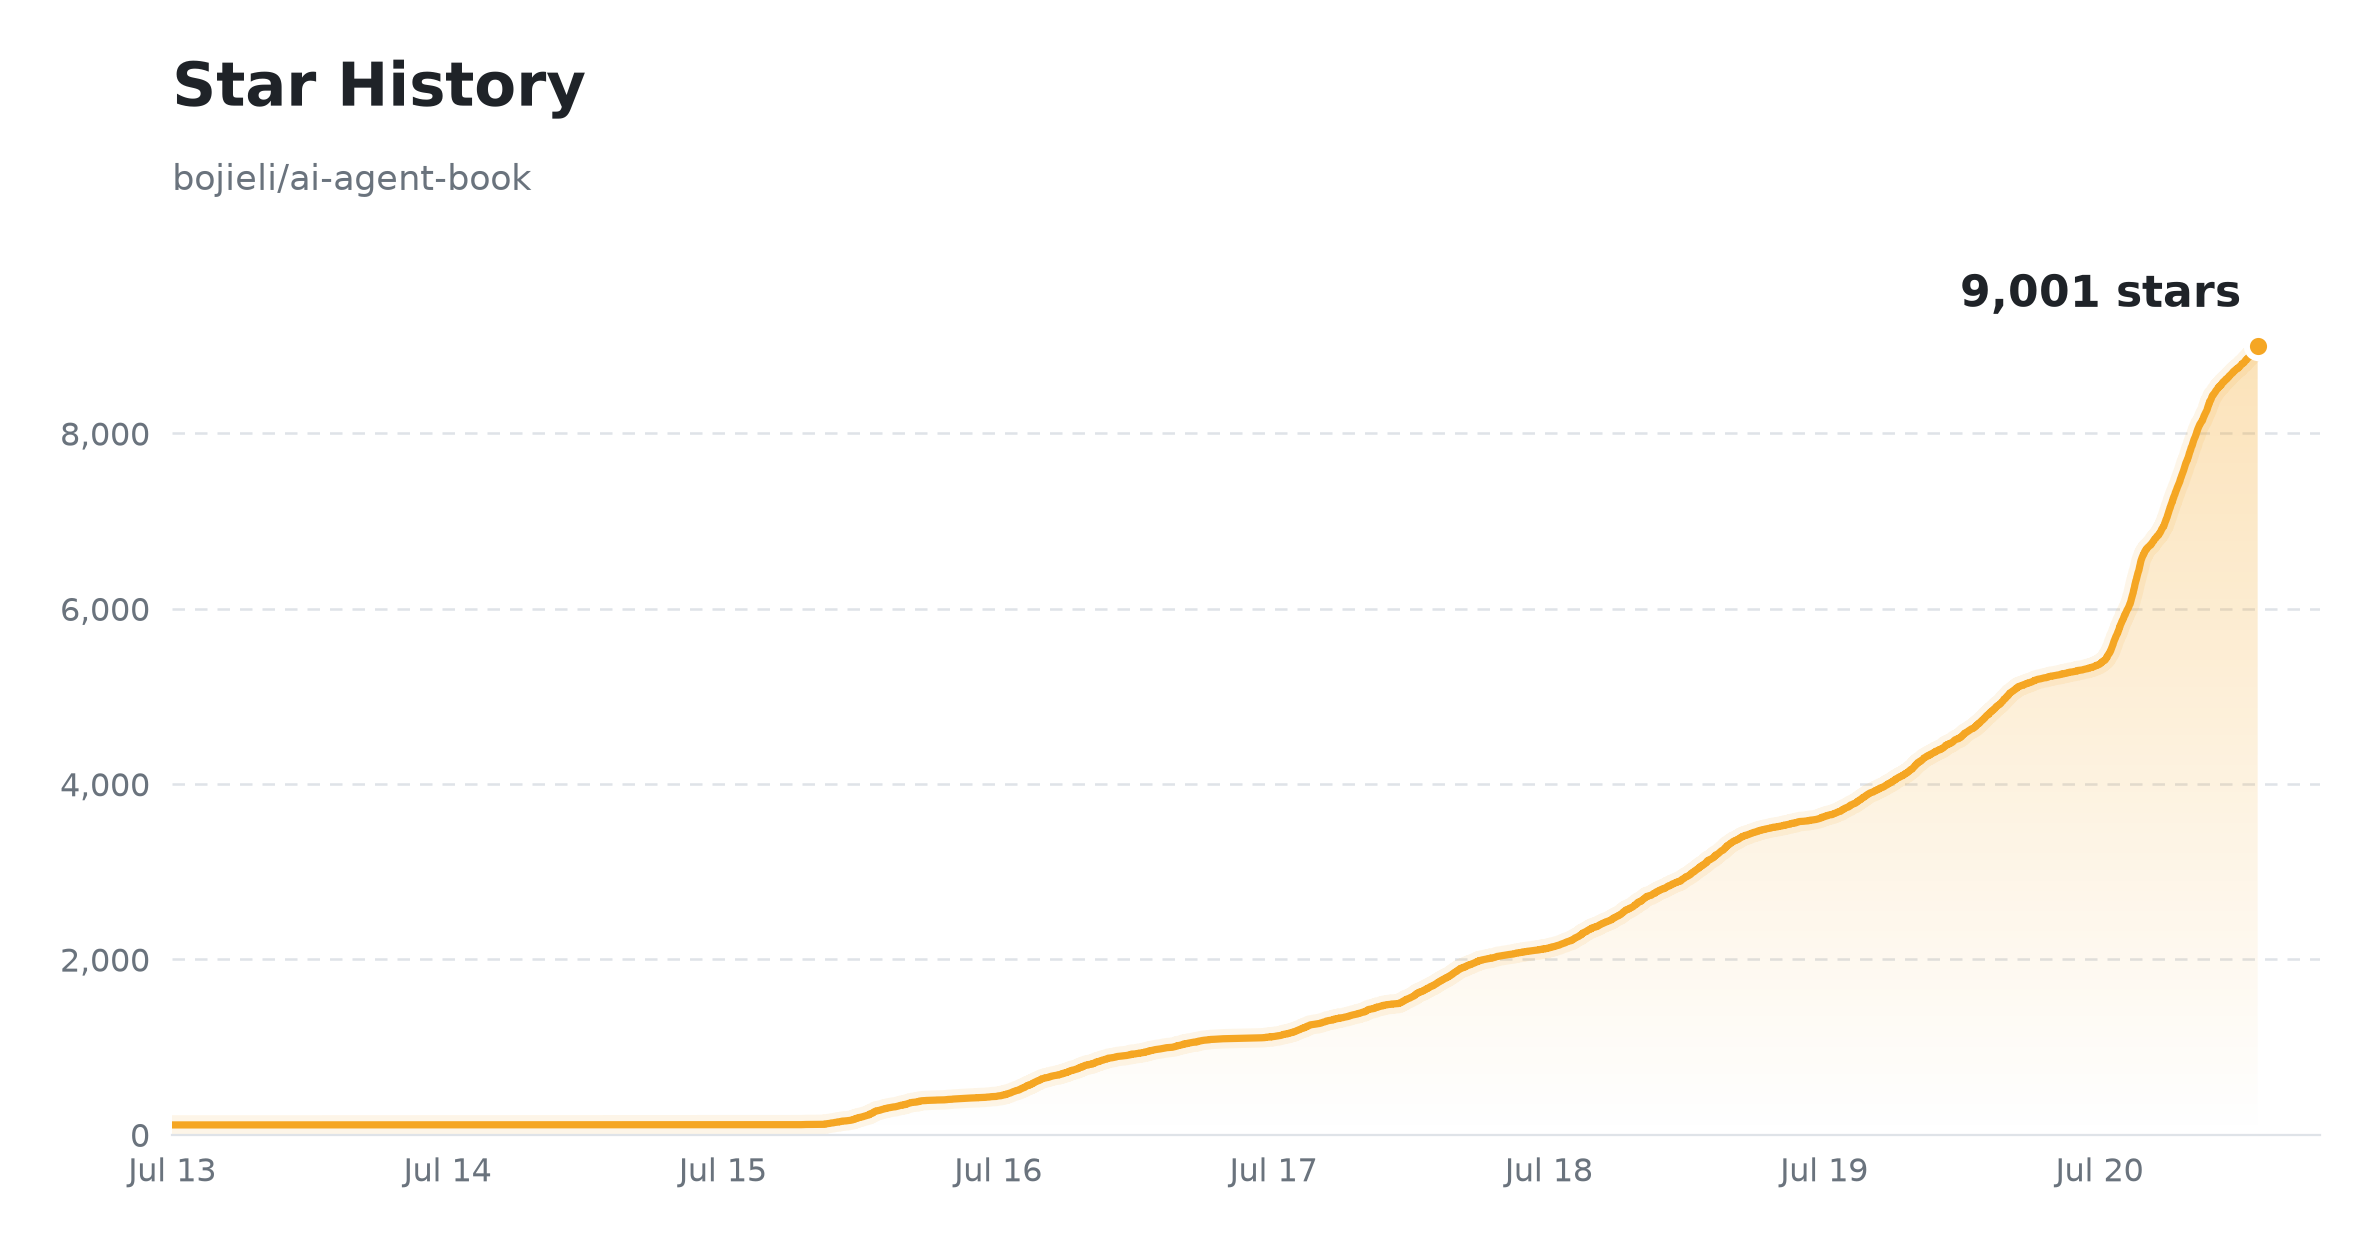
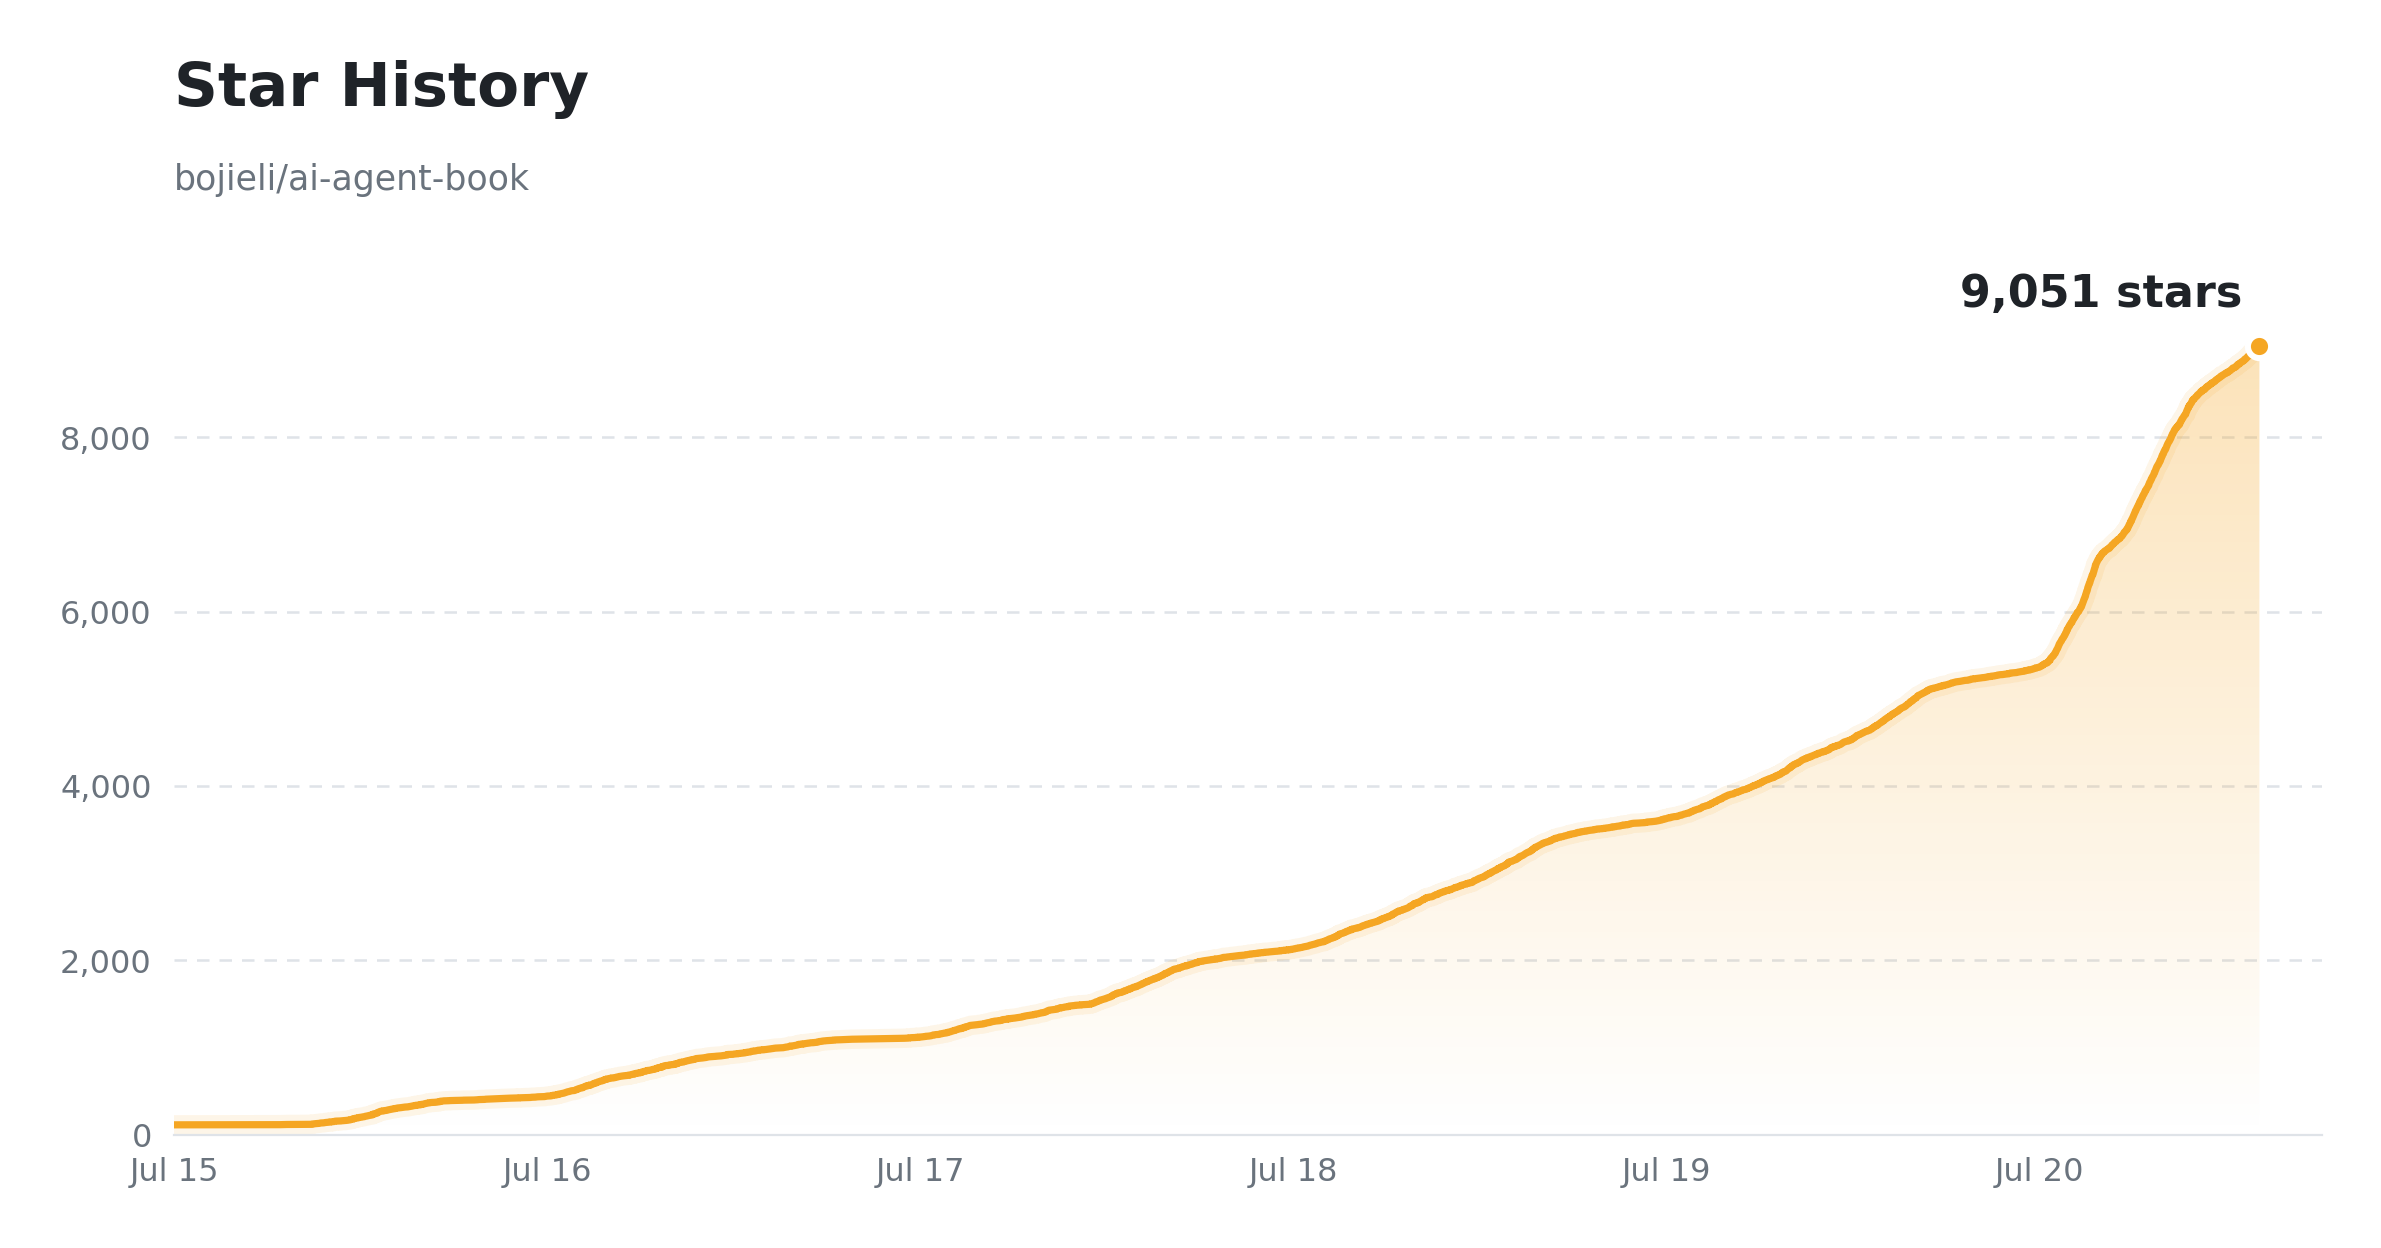
Start star history graph from Jul 15

diff --git a/scripts/gen_star_history.py b/scripts/gen_star_history.py
@@ -38,7 +38,7 @@ from matplotlib.colors import LinearSegmentedColormap, to_rgba
 from matplotlib.ticker import FuncFormatter
 
 REPO = "bojieli/ai-agent-book"
-START_DATE = "2026-07-13"  # UTC; stars before this date are excluded
+START_DATE = "2026-07-15"  # UTC; stars before this date are excluded
 CACHE = Path(__file__).with_name(".star-history-cache.json")
 
 ACCENT = "#f5a623"  # warm amber, reads well on both light and dark